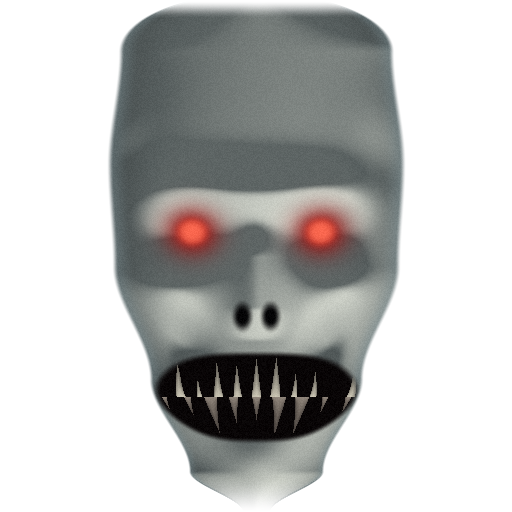
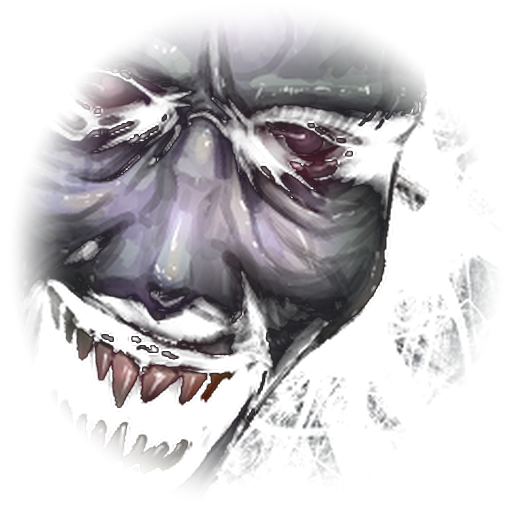
Use the supplied ghost artwork for the face
The reference art was in public/assets as ghot.webp. tools/import-ghost.py
converts it to the RGBA texture the model wears.

Getting the alpha right took two attempts. The obvious approach — key the
background out by luminance — cannot work here: the image is genuinely
high-contrast, a quarter of its pixels are pure black and the median
luminance is about 20, so the shadowed half of the face is exactly as dark as
the background behind it. Keying on brightness punched holes through the
cheek and the open mouth while blowing out the lit skin, which read as a photo
negative. The colours now pass through untouched and alpha comes from a soft
vignette instead; against a near-black house the source background disappears
on its own and never needed cutting out.

The shader was then throwing the artwork away. It multiplied the texture by
the spectral tint and faded it by fresnel, which in a house lit this dimly
left the face a barely visible smudge. The artwork now renders at full
strength and skips the cloth dissolve, because a face is not cloth. The face
plane is also larger and the head sphere behind it smaller, so the art is the
ghost rather than a stamp on it.

Verified in the running game: the face reads clearly at 2.6m in a dark room,
and the jumpscare's red wash and scanline tearing fire on the catch. Balance
unchanged at 50/50 over 30 matches.

diff --git a/src/render/ghostModel.ts b/src/render/ghostModel.ts
@@ -128,10 +128,21 @@ function spectralMaterial(u: Spectral, opts: { dissolveFrom: number; useMap: boo
         #if USE_MAP_TEX
           if (uHasMap > 0.5) {
             vec4 tex = texture2D(uMap, vUv);
-            // The artwork supplies the colour and the cut-out; the shader
-            // supplies the glow at the edges, so it still looks spectral.
-            col = mix(tex.rgb, tex.rgb * uColor * 1.7, fres * 0.55);
-            alpha = tex.a * (0.72 + fres * 0.34);
+            /*
+             * The artwork is the face: show it, do not tint it.
+             *
+             * This first multiplied the texture by the spectral colour and
+             * faded it by fresnel, which in a house lit this dimly left the
+             * face a barely-visible smudge — all the work of drawing it was
+             * thrown away by the shader. The artwork now passes through at
+             * full strength and is lifted a little at the silhouette, so it
+             * reads across a room while still belonging to the body.
+             */
+            col = tex.rgb * (1.25 + fres * 0.55);
+            alpha = tex.a * (0.94 + fres * 0.06);
+            // Skip the dissolve and ripple below: the face is not cloth.
+            gl_FragColor = vec4(col, alpha * uPresence);
+            return;
           }
         #endif
 
@@ -224,7 +235,7 @@ export function createGhost(): GhostModel {
   headGroup.position.y = 0.92;
   body.add(headGroup);
 
-  const headGeo = track(new THREE.SphereGeometry(0.225, 20, 18));
+  const headGeo = track(new THREE.SphereGeometry(0.19, 18, 16));
   const headMat = track(spectralMaterial(u, { dissolveFrom: -0.4, useMap: false }));
   const head = new THREE.Mesh(headGeo, headMat);
   headGroup.add(head);
@@ -250,14 +261,14 @@ export function createGhost(): GhostModel {
    * drawn. Bowing it forward at the centre keeps it sitting on a face rather
    * than floating in front of one.
    */
-  const faceGeo = track(new THREE.PlaneGeometry(0.46, 0.60, 12, 14));
+  const faceGeo = track(new THREE.PlaneGeometry(0.62, 0.72, 12, 14));
   {
     const pos = faceGeo.attributes.position;
     for (let i = 0; i < pos.count; i++) {
       const x = pos.getX(i);
       const y = pos.getY(i);
       // Push the middle of the plane out into a shallow dome.
-      const bulge = Math.cos((x / 0.23) * Math.PI * 0.5) * Math.cos((y / 0.30) * Math.PI * 0.5);
+      const bulge = Math.cos((x / 0.31) * Math.PI * 0.5) * Math.cos((y / 0.36) * Math.PI * 0.5);
       pos.setZ(i, Math.max(0, bulge) * 0.10);
     }
     pos.needsUpdate = true;
@@ -266,7 +277,7 @@ export function createGhost(): GhostModel {
   const faceMat = track(spectralMaterial(u, { dissolveFrom: -1.0, useMap: true }));
   const face = new THREE.Mesh(faceGeo, faceMat);
   // Sit just proud of the head sphere, facing the model's forward (+Z).
-  face.position.set(0, 0.02, 0.20);
+  face.position.set(0, 0.04, 0.21);
   headGroup.add(face);
 
   // --- The eyes. Drawn while the face is still procedural; hidden once the

diff --git a/tools/import-ghost.py b/tools/import-ghost.py
@@ -1,0 +1,83 @@
+"""
+Turn the supplied ghost artwork into a texture the model can wear.
+
+The source is a 240x240 RGB WebP with no alpha: a face lit hard from the upper
+left, half of it falling away into deep shadow, cropped tight and sitting
+off-centre in the frame.
+
+The one thing to get right here is the alpha. The image is genuinely
+high-contrast — a quarter of its pixels are pure black and the median
+luminance is about 20 — so the shadowed side of the face is exactly as dark as
+the background behind it. Keying on brightness therefore cannot separate them,
+and a first attempt that tried produced a washed-out negative: it punched holes
+through the shadowed cheek and the open mouth while leaving the lit skin
+blown out.
+
+So the colours are passed through completely untouched, and alpha comes from a
+soft vignette instead. That keeps every pixel of the artwork as drawn, lets the
+dark half stay dark, and relies on the fact that the ghost is rendered against
+an almost black house — the background of the source simply disappears into
+the scene rather than needing to be cut out.
+
+    python tools/import-ghost.py [source] [dest]
+"""
+
+import math
+import sys
+from PIL import Image
+
+SRC = sys.argv[1] if len(sys.argv) > 1 else "public/assets/ghot.webp"
+DST = sys.argv[2] if len(sys.argv) > 2 else "public/assets/ghost.png"
+OUT = 512
+
+
+def main():
+    src = Image.open(SRC).convert("RGB")
+
+    # Upscale first, so the vignette is computed at output resolution and the
+    # edge stays smooth rather than inheriting 240px stair-stepping.
+    face = src.resize((OUT, OUT), Image.LANCZOS)
+    out = face.convert("RGBA")
+    px = out.load()
+
+    for y in range(OUT):
+        v = (y / OUT - 0.5) * 2.0          # -1 .. 1
+        for x in range(OUT):
+            u = (x / OUT - 0.5) * 2.0
+
+            r, g, b, _ = px[x, y]
+
+            # --- A soft oval vignette: fully opaque across the face, falling
+            #     away at the edges so the texture has no visible border. ---
+            d = math.hypot(u / 0.98, v / 1.02)
+            if d <= 0.72:
+                a = 1.0
+            elif d >= 1.0:
+                a = 0.0
+            else:
+                t = (d - 0.72) / 0.28
+                a = 1.0 - t * t * (3 - 2 * t)   # smoothstep
+
+            # --- The bottom fades further, so the jaw melts into the shroud
+            #     instead of ending on a hard horizontal cut. ---
+            vy = y / OUT
+            if vy > 0.82:
+                a *= max(0.0, 1.0 - (vy - 0.82) / 0.18)
+
+            # --- Pixels that are essentially black carry no information and
+            #     only dull the scene behind them, so let them drop out. This
+            #     is a gentle ramp over a wide range, not a threshold: it
+            #     thins the background without biting into the shadowed side
+            #     of the face. ---
+            lum = 0.299 * r + 0.587 * g + 0.114 * b
+            if lum < 34:
+                a *= lum / 34.0
+
+            px[x, y] = (r, g, b, int(max(0.0, min(1.0, a)) * 255))
+
+    out.save(DST)
+    print(f"wrote {DST}  {OUT}x{OUT}")
+
+
+if __name__ == "__main__":
+    main()

diff --git a/public/assets/README.md b/public/assets/README.md
@@ -1,15 +1,29 @@
 # Assets
 
-## ghost.png
+## ghot.webp — the source artwork
 
-Drop the ghost artwork here as `ghost.png` — a transparent PNG works best.
+The ghost as supplied: a 240x240 RGB WebP, a face lit hard from the upper left
+with half of it falling into deep shadow.
 
-It is mapped onto the face of the ghost's built 3D head (see
-`src/render/ghostModel.ts`), not used as a flat billboard, so the ghost still
-has a back, still turns away from you, and still lunges in three dimensions at
-the catch.
+## ghost.png — what the game loads
 
-Until the file exists the game draws a procedural spectral face instead and
-everything else about the body is identical, so nothing blocks on the art.
-`GHOST_TEXTURE_URL` in `ghostModel.ts` is the only line to change if you want
-it somewhere else.
+Generated from the WebP by `tools/import-ghost.py`:
+
+    python tools/import-ghost.py
+
+It upscales to 512x512 and adds an alpha channel. The colours are passed
+through untouched, and alpha comes from a soft oval vignette rather than a
+luminance key — the source is high-contrast enough that the shadowed side of
+the face is exactly as dark as the background behind it, so keying on
+brightness punches holes through the cheek and the open mouth. Against the
+game's near-black house the source background simply disappears, so it never
+needed cutting out.
+
+Opened in an image viewer the PNG looks like a negative, because viewers
+composite transparency over white. That is the viewer, not the file.
+
+The texture maps onto a curved plane on the ghost's built 3D head, not a flat
+billboard, so the ghost has a back, turns away from you, and lunges in three
+dimensions at the catch. To swap the art, replace `ghot.webp` and re-run the
+script; `GHOST_TEXTURE_URL` in `src/render/ghostModel.ts` already points at the
+output.
